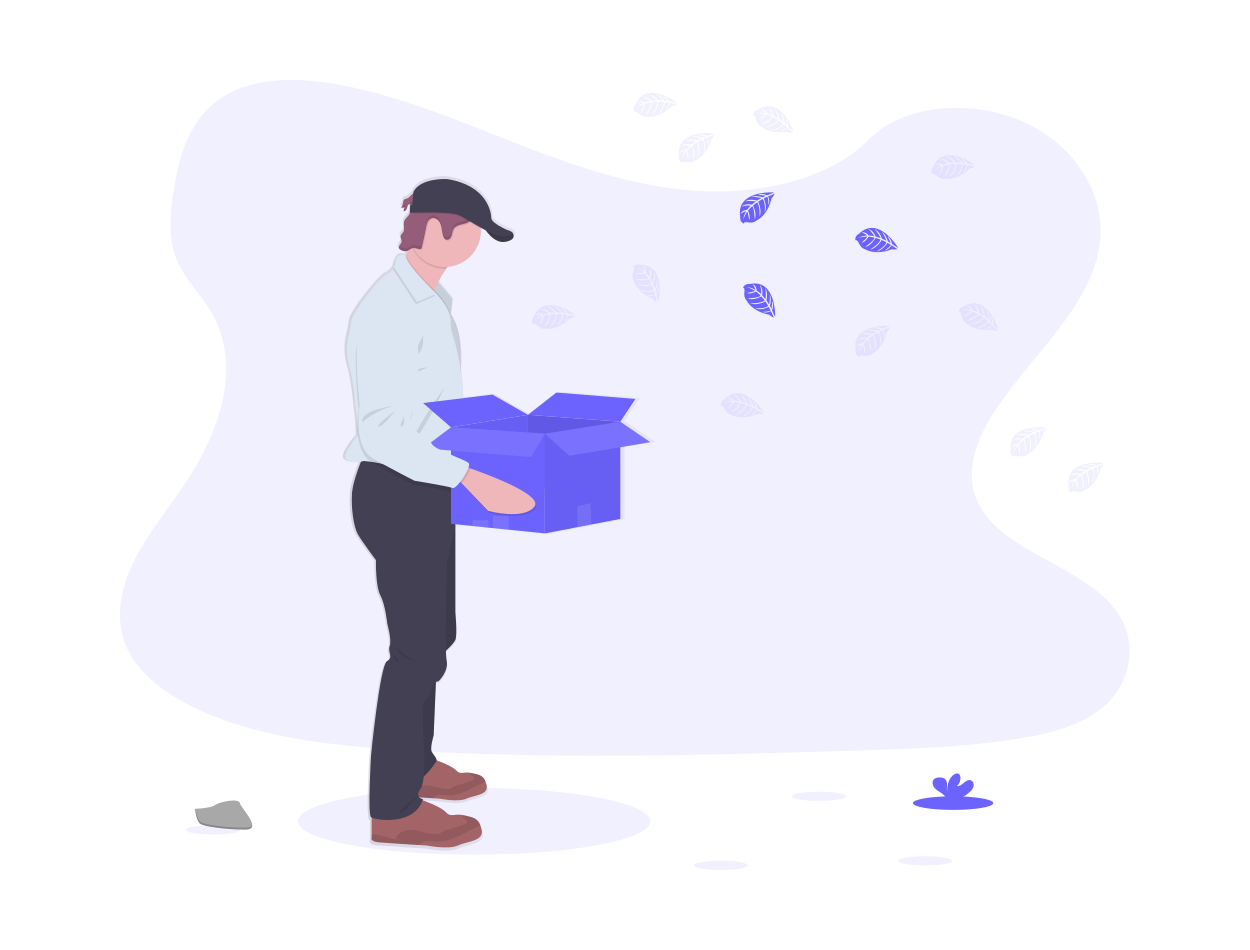
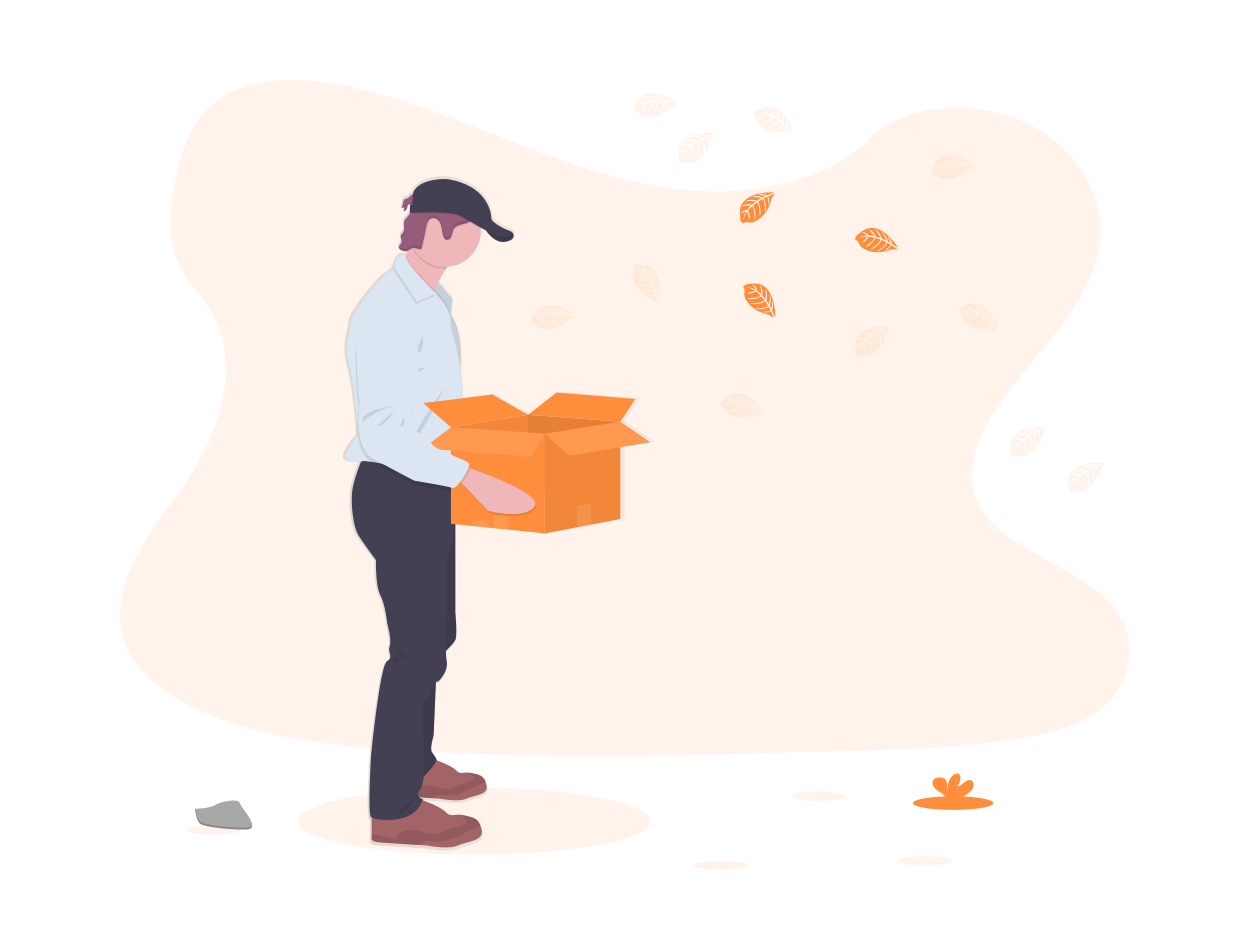
Cambios de diseño

diff --git a/src/app/views/users/user-post-product/user-post-product.component.html b/src/app/views/users/user-post-product/user-post-product.component.html
@@ -1,18 +1,19 @@
-<div class="container mx-auto px-4">
-    <div class="flex flex-wrap items-center justify-between pt-3 pl-3.5">
-        <a mat-raised-button
-            class="rounded-full h-8 w-8 flex items-center justify-center bg-purple-700 text-white hover:bg-purple-400 "
-            [routerLink]="['/user-profile']">
-            <mat-icon class="ml-1.5">arrow_back_ios</mat-icon>
-        </a>
+<div class="container h-auto mx-auto py-20 px-6">
+    <a mat-raised-button class="h-8 w-8 flex items-center justify-center bg-orange text-white p-5" [routerLink]="['/user-profile']">
+        <mat-icon class="ml-1.5">arrow_back_ios</mat-icon>
+    </a>
+    <div class="flex flex-wrap items-center justify-between mt-8">
+        <p class="text-black text-3xl font-semibold">Subir un producto</p>
     </div>
+
     <div class="grid grid-cols-2 mx-auto h-screen w-auto py-20 px-6">
         <div class="flex flex-col">
-            <mat-form-field appearance="fill">
+            <mat-form-field class="mb-5">
                 <mat-label>Título del artículo</mat-label>
                 <input matInput [(ngModel)]="newProduct.product_name">
             </mat-form-field>
-            <mat-form-field appearance="fill">
+
+            <mat-form-field class="mb-5">
                 <mat-label>Selecciona una categoría</mat-label>
                 <mat-select [(ngModel)]="newProduct.category">
                     <mat-option *ngFor="let category of allCategories" [value]="category">
@@ -20,7 +21,8 @@
                     </mat-option>
                 </mat-select>
             </mat-form-field>
-            <mat-form-field appearance="fill">
+
+            <mat-form-field class="mb-5">
                 <mat-label>Describe el producto</mat-label>
                 <textarea
                     matInput
@@ -30,7 +32,8 @@
                 >
                 </textarea>
             </mat-form-field>
-            <mat-form-field appearance="fill">
+
+            <mat-form-field class="mb-5">
                 <mat-date-range-input [formGroup]="range" [rangePicker]="picker">
                     <input matStartDate formControlName="start" placeholder="Fecha inicio">
                     <input matEndDate formControlName="end" placeholder="Fecha fin">
@@ -41,15 +44,15 @@
                 <mat-error *ngIf="range.controls.start.hasError('matStartDateInvalid')">Fecha inválida</mat-error>
                 <mat-error *ngIf="range.controls.end.hasError('matEndDateInvalid')">Fecha inválida</mat-error>
             </mat-form-field>
-            <button class="rounded-full bg-purple-700 py-3 px-6 mt-4 w-full text-white hover:bg-purple-400 disabled:opacity-50" (click)="this.postProduct()"  [disabled]="!range.valid" >Guardar</button>
+            <button class="bg-orange py-3 px-6 mt-4 w-full text-white hover:bg-orange disabled:opacity-50" (click)="this.postProduct()"  [disabled]="!range.valid" >Guardar</button>
         </div>
         
         <div class="mr-9">
             <div class='flex flex-col items-center justify-center w-full'>
-                <label class='flex flex-col border-4 border-dashed w-full h-32 hover:bg-gray-100 hover:border-purple-300 group'>
+                <label class='flex flex-col border-4 border-dashed w-full h-32 hover:bg-gray-100 hover:border-orange group'>
                     <div class='flex flex-col items-center justify-center pt-7'>
-                        <svg class="w-10 h-10 text-purple-400 group-hover:text-purple-600" fill="none" stroke="currentColor" viewBox="0 0 24 24" xmlns="http://www.w3.org/2000/svg"><path stroke-linecap="round" stroke-linejoin="round" stroke-width="2" d="M4 16l4.586-4.586a2 2 0 012.828 0L16 16m-2-2l1.586-1.586a2 2 0 012.828 0L20 14m-6-6h.01M6 20h12a2 2 0 002-2V6a2 2 0 00-2-2H6a2 2 0 00-2 2v12a2 2 0 002 2z"></path></svg>
-                        <p class='lowercase text-sm text-gray-400 group-hover:text-purple-600 pt-1 tracking-wider'>Añadir fotos</p>
+                        <svg class="w-10 h-10 text-orange group-hover:text-orange" fill="none" stroke="currentColor" viewBox="0 0 24 24" xmlns="http://www.w3.org/2000/svg"><path stroke-linecap="round" stroke-linejoin="round" stroke-width="2" d="M4 16l4.586-4.586a2 2 0 012.828 0L16 16m-2-2l1.586-1.586a2 2 0 012.828 0L20 14m-6-6h.01M6 20h12a2 2 0 002-2V6a2 2 0 00-2-2H6a2 2 0 00-2 2v12a2 2 0 002 2z"></path></svg>
+                        <p class='lowercase text-sm text-gray-400 group-hover:text-orange pt-1 tracking-wider'>Añadir fotos</p>
                     </div>
                     <input type='file' class="hidden" (change)="processFile($event)" multiple/>
                 </label>

diff --git a/src/app/views/users/user-profile/user-profile.component.html b/src/app/views/users/user-profile/user-profile.component.html
@@ -1,8 +1,8 @@
 <div class="container h-auto mx-auto py-20 px-6">
     <div class="flex flex-wrap items-center justify-between">
-        <h1 class="text-purple-700">Hola de nuevo {{ user.name | titlecase }}</h1>
+        <p class="text-orange text-3xl">Hola de nuevo, {{ user.name | titlecase }}</p>
         <div class="py-7">
-            <a [routerLink]="['/new-post']" class="bg-orange rounded-full py-3 px-6 text-white hover:bg-orange">Subir producto</a>
+            <a [routerLink]="['/new-post']" class="bg-orange py-3 px-6 text-white hover:bg-orange">Subir producto</a>
         </div>
     </div>
 
@@ -11,7 +11,7 @@
         <span>Has subido un total de {{ allProducts.length }} artículos a la
             plataforma</span>
         <div *ngIf="this.allProducts.length === 0" class="mx-auto pt-20">
-            <img class="object-cover h-50 w-50 rounded-full opacity-60" src="../../../../assets/img/empty.png"
+            <img class="object-cover h-50 w-50" src="../../../../assets/img/empty.png"
                 alt="Empty box" />
         </div>
     </div>

diff --git a/src/app/components/menu/menu.component.html b/src/app/components/menu/menu.component.html
@@ -4,19 +4,19 @@
 <mat-menu #menu="matMenu" class="bg-gray-100">
   <a [routerLink]="['user-profile']">
     <button mat-menu-item>
-      <mat-icon [ngStyle]="{'color':'rgb(89,0,207)'}">person</mat-icon>
+      <mat-icon [ngStyle]="{'color':'#ff8e3c'}">person</mat-icon>
       <span class="text-black">Perfil</span>
     </button>
   </a>
   <a [routerLink]="['edit-user']">
     <button mat-menu-item>
-      <mat-icon [ngStyle]="{'color':'rgb(89,0,207)'}">settings</mat-icon>
+      <mat-icon [ngStyle]="{'color':'#ff8e3c'}">settings</mat-icon>
       <span class="text-black">Configuración</span>
     </button>
   </a>
   <a>
     <button mat-menu-item (click)="this.logOut()">
-      <mat-icon [ngStyle]="{'color':'rgb(89,0,207)'}">logout</mat-icon>
+      <mat-icon [ngStyle]="{'color':'#ff8e3c'}">logout</mat-icon>
       <span class="text-black">Cerrar sesión</span>
     </button>
   </a>

diff --git a/src/app/app-routing.module.ts b/src/app/app-routing.module.ts
@@ -33,27 +33,27 @@ const routes: Routes = [
   {
     path:'user-profile',
     component: UserProfileComponent,
-    canActivate: [AuthGuard]
+   //canActivate: [AuthGuard]
   },
   {
     path:'new-post',
     component: UserPostProductComponent,
-    canActivate: [AuthGuard]
+    //canActivate: [AuthGuard]
   },
   {
     path:'settings',
     component: SettingsComponent,
-    canActivate: [AuthGuard]
+    //canActivate: [AuthGuard]
   },
   {
     path:'edit-user',
     component: EditUserComponent,
-    canActivate: [AuthGuard],
+    //canActivate: [AuthGuard],
   },
   {
     path:'edit-post/:id',
     component: EditProductComponent,
-    canActivate: [AuthGuard],
+    //canActivate: [AuthGuard],
   }
 
 ];
